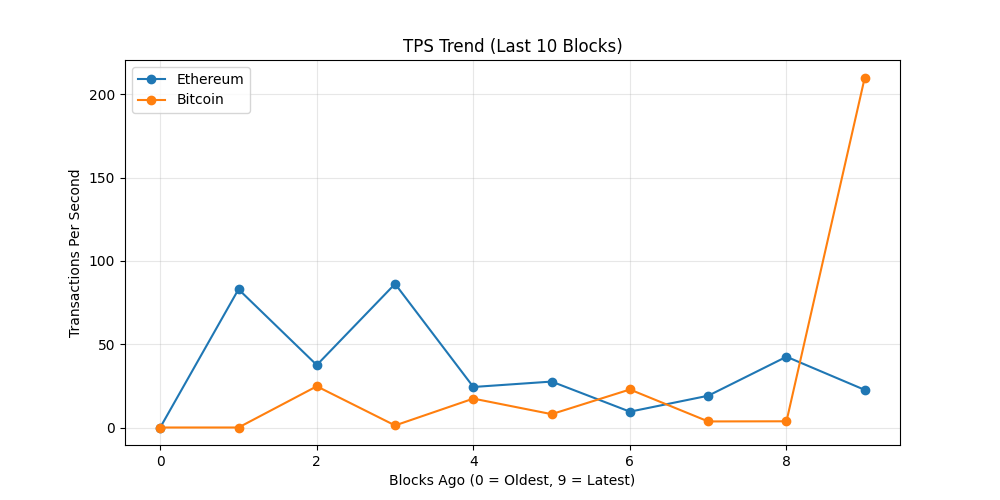
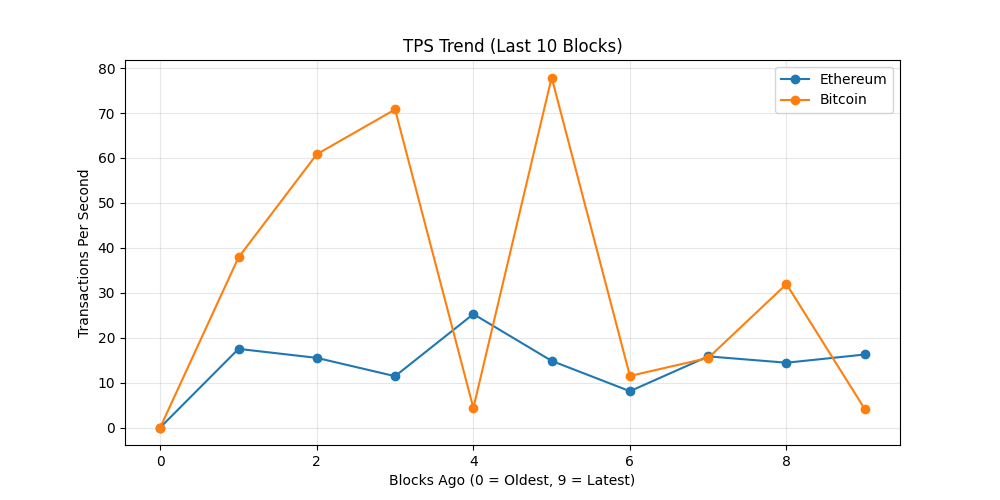
chore: update on-chain dashboard

diff --git a/README.md b/README.md
@@ -19,7 +19,7 @@ The README itself acts as the dashboard and is regenerated automatically on a 6 
 demonstrating a production-style, infrastructure-focused observability workflow rather
 than a traditional UI-driven approach.
 
-_Last updated: 2026-07-15 14:07 UTC_
+_Last updated: 2026-07-16 03:34 UTC_
 
 ## API Usage (GetBlock.io)
 - Calls used: **24**
@@ -27,8 +27,8 @@ _Last updated: 2026-07-15 14:07 UTC_
 ## Network Metrics
 | Chain | Block Height | TX Count | TPS (10 blk avg) | Block Util | Avg Fee |
 |------|-------------|----------|------------------|------------|---------|
-| Ethereum | 25538548 | 271 | 22.58 | 57.95% | 0.3 Gwei |
-| Bitcoin | 958160 | 2312 | 210.18 | 99.8% | N/A |
+| Ethereum | 25542568 | 195 | 16.25 | 92.55% | 0.1 Gwei |
+| Bitcoin | 958232 | 4197 | 4.11 | 99.88% | N/A |
 
 ## Visuals
 ### Transactions Trend
@@ -43,7 +43,11 @@ _Last updated: 2026-07-15 14:07 UTC_
 ## Whale Alerts (latest block)
 - Transaction hashes are truncated for readability.
 - Full hashes are available in `dashboards/metrics.json`
-No whale-sized transfers detected in latest blocks.
+- Bitcoin | 229.21 BTC | `7090a670154e…`
+- Bitcoin | 182.9 BTC | `008856e40521…`
+- Bitcoin | 554.04 BTC | `a57226e69de7…`
+- Bitcoin | 112.75 BTC | `3277b3cf5a24…`
+- Bitcoin | 265.76 BTC | `c40df908801d…`
 
 ## Run locally
 
